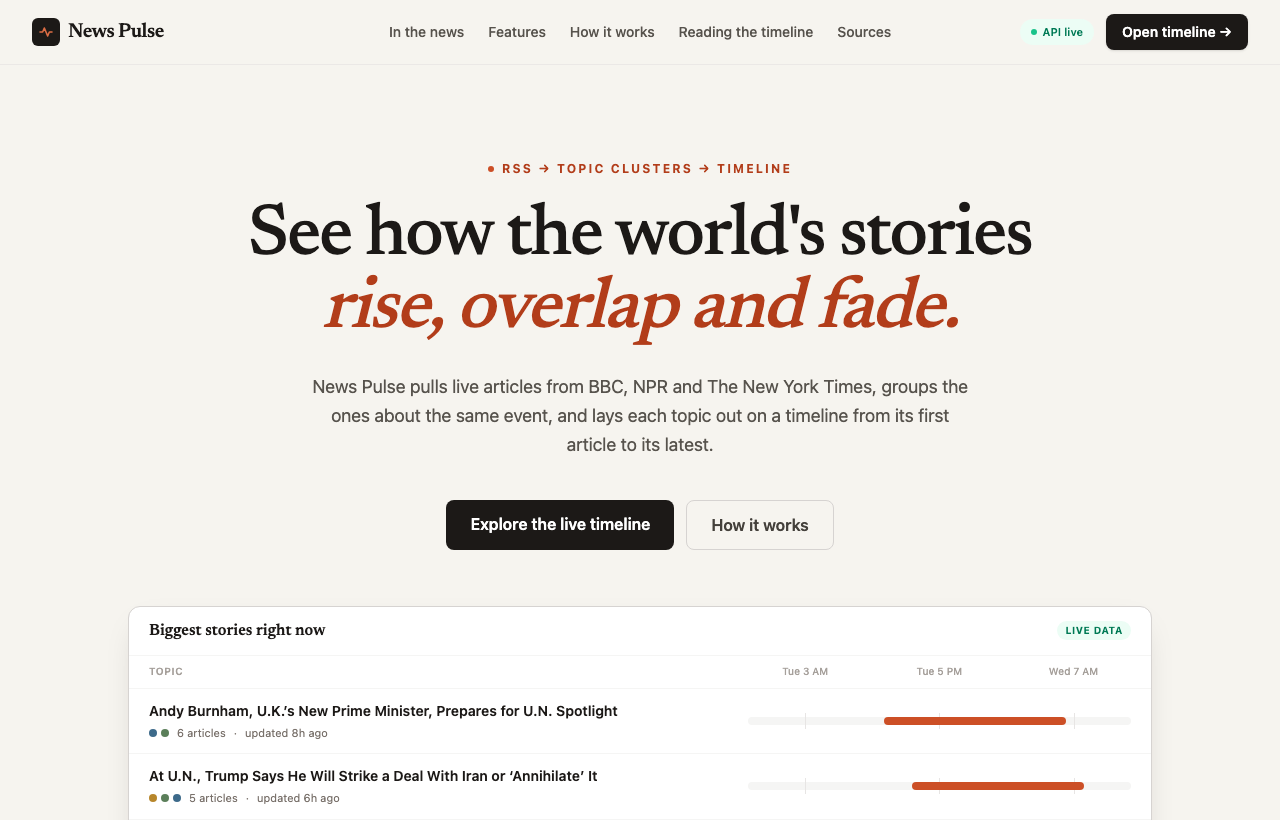
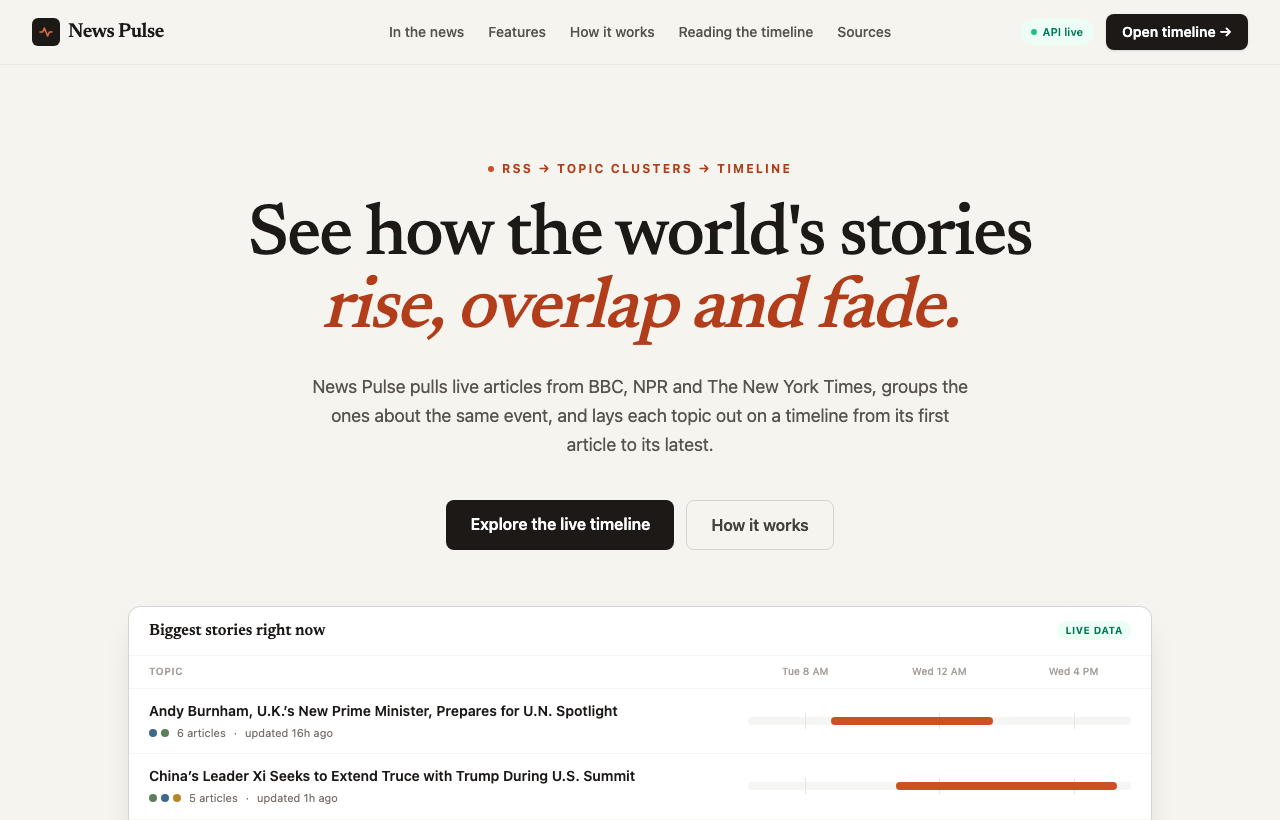
Scale timeline bar thickness with coverage

diff --git a/frontend/app/components/Timeline.js b/frontend/app/components/Timeline.js
@@ -11,22 +11,32 @@ const MIN_BAR_PX = 10;
 const MAX_LABEL_PX = 340;
 const MIN_LABEL_PX = 60;
 const MIN_TICK_SPACING_PX = 110;
+// Bar thickness encodes coverage: the biggest story gets MAX_BAR_H, a single
+// article about MIN_BAR_H. Square root keeps small counts (1 vs 2) visible.
+const MIN_BAR_H = 14;
+const MAX_BAR_H = 30;
+// Below this height a title can't sit inside the bar and goes beside it.
+const MIN_INSIDE_LABEL_H = 22;
+
+function barHeight(intensity = 0) {
+  return Math.round(MIN_BAR_H + (MAX_BAR_H - MIN_BAR_H) * Math.sqrt(Math.min(Math.max(intensity, 0), 1)));
+}
 const ZOOM_LEVELS = [1, 1.5, 2, 3, 4, 6];
 
 const HOUR = 3600000;
 const TICK_INTERVALS = [0.25, 0.5, 1, 2, 3, 6, 12, 24, 48, 168].map(h => h * HOUR);
 
 let measureCtx = null;
-function measureLabel(text) {
+let measureFamily = 'system-ui, sans-serif';
+// Titles are measured in the weight they are drawn in (bold titles are wider).
+function measureLabel(text, weight = 600) {
   if (typeof document !== 'undefined' && !measureCtx) {
     measureCtx = document.createElement('canvas').getContext('2d');
-    if (measureCtx) {
-      const family = getComputedStyle(document.body).fontFamily || 'system-ui, sans-serif';
-      measureCtx.font = `600 12px ${family}`;
-    }
+    measureFamily = getComputedStyle(document.body).fontFamily || measureFamily;
   }
-  const width = measureCtx ? measureCtx.measureText(text).width : text.length * 6.8;
-  return Math.min(Math.ceil(width), MAX_LABEL_PX);
+  if (!measureCtx) return Math.min(Math.ceil(text.length * 6.8), MAX_LABEL_PX);
+  measureCtx.font = `${weight} 12px ${measureFamily}`;
+  return Math.min(Math.ceil(measureCtx.measureText(text).width), MAX_LABEL_PX);
 }
 
 function buildTicks(minTime, maxTime, pxPerMs) {
@@ -94,8 +104,9 @@ export default function Timeline({ data, onSelectCluster, selectedClusterId, hig
       const x = toX(start);
       const barW = Math.max(MIN_BAR_PX, (end - start) * pxPerMs);
       const badgeW = cluster.articleCount > 1 ? 30 : 0;
-      const labelW = measureLabel(cluster.label);
-      const inside = labelW + badgeW + 22 <= barW;
+      const labelW = measureLabel(cluster.label, coverageTier(cluster.intensity) === 'high' ? 700 : 600);
+      const barH = barHeight(cluster.intensity);
+      const inside = barH >= MIN_INSIDE_LABEL_H && labelW + badgeW + 22 <= barW;
 
       let labelSide = 'inside';
       let labelMaxW = labelW;
@@ -117,7 +128,7 @@ export default function Timeline({ data, onSelectCluster, selectedClusterId, hig
         if (labelSide === 'right') occEnd = x + barW + labelMaxW + extra;
         else occStart = x - labelMaxW - extra;
       }
-      return { cluster, x, barW, labelSide, labelMaxW, occStart, occEnd };
+      return { cluster, x, barW, barH, labelSide, labelMaxW, occStart, occEnd };
     });
 
     // Place the biggest stories first so they settle into the top lanes.
@@ -286,8 +297,10 @@ export default function Timeline({ data, onSelectCluster, selectedClusterId, hig
             )}
 
             {/* Clusters */}
-            {layout.items.map(({ cluster, x, barW, labelSide, labelMaxW, lane }) => {
-              const styles = TIER_STYLES[coverageTier(cluster.intensity)];
+            {layout.items.map(({ cluster, x, barW, barH, labelSide, labelMaxW, lane }) => {
+              const tier = coverageTier(cluster.intensity);
+              const styles = TIER_STYLES[tier];
+              const weight = tier === 'high' ? 'font-bold' : 'font-semibold';
               const isSelected = cluster.id === selectedClusterId;
               const isDimmed = highlightIds && !highlightIds.has(cluster.id);
               const top = 36 + 12 + lane * (ROW_H + ROW_GAP);
@@ -317,12 +330,12 @@ export default function Timeline({ data, onSelectCluster, selectedClusterId, hig
                   }}
                 >
                   <span
-                    className={`relative flex h-[26px] items-center gap-2 overflow-hidden rounded-md border px-2.5 shadow-sm transition-shadow group-hover:shadow-md group-focus-visible:ring-2 group-focus-visible:ring-accent-500 group-focus-visible:ring-offset-1 ${styles.bar} ${isSelected ? 'ring-2 ring-stone-900 ring-offset-2' : ''}`}
-                    style={{ width: barW }}
+                    className={`relative flex items-center gap-2 overflow-hidden rounded-md border shadow-sm ${labelSide === 'inside' ? 'px-2.5' : ''} transition-shadow group-hover:shadow-md group-focus-visible:ring-2 group-focus-visible:ring-accent-500 group-focus-visible:ring-offset-1 ${styles.bar} ${isSelected ? 'ring-2 ring-stone-900 ring-offset-2' : ''}`}
+                    style={{ width: barW, height: barH }}
                   >
                     {labelSide === 'inside' && (
                       <>
-                        <span className="truncate text-xs font-semibold">{cluster.label}</span>
+                        <span className={`truncate text-xs ${weight}`}>{cluster.label}</span>
                         <span className="ml-auto">{badge}</span>
                       </>
                     )}
@@ -330,7 +343,7 @@ export default function Timeline({ data, onSelectCluster, selectedClusterId, hig
                   {labelSide !== 'inside' && (
                     <span className={`flex items-center gap-1.5 whitespace-nowrap ${labelSide === 'left' ? 'pr-2' : 'pl-2'}`}>
                       <span
-                        className={`truncate text-xs font-semibold group-hover:text-accent-700 ${isSelected ? 'text-stone-950 underline decoration-2 underline-offset-2' : 'text-stone-700'}`}
+                        className={`truncate text-xs ${weight} group-hover:text-accent-700 ${isSelected ? 'text-stone-950 underline decoration-2 underline-offset-2' : 'text-stone-700'}`}
                         style={{ maxWidth: labelMaxW + 2 }}
                       >
                         {cluster.label}
@@ -351,11 +364,11 @@ export default function Timeline({ data, onSelectCluster, selectedClusterId, hig
 
       <footer className="border-t border-stone-200 bg-paper px-5 py-2.5 flex flex-wrap items-center gap-x-5 gap-y-2 text-[11px] text-stone-500">
         <span className="font-semibold text-stone-600">Coverage</span>
-        <LegendSwatch className="bg-accent-600 border-accent-700" label="Heavy" />
-        <LegendSwatch className="bg-accent-200 border-accent-300" label="Moderate" />
-        <LegendSwatch className="bg-stone-200 border-stone-300" label="Light" />
+        <LegendSwatch className="h-3.5 bg-accent-600 border-accent-700" label="Heavy" />
+        <LegendSwatch className="h-2.5 bg-accent-200 border-accent-300" label="Moderate" />
+        <LegendSwatch className="h-1.5 bg-stone-200 border-stone-300" label="Light" />
         <span className="hidden sm:inline text-stone-400">·</span>
-        <span>Bar length = how long the story stayed active</span>
+        <span>Length = how long the story stayed active · thickness and colour = how many articles</span>
         <span className="ml-auto hidden md:inline text-stone-400">Shift + scroll to pan · click a topic for articles</span>
       </footer>
     </div>
@@ -365,7 +378,7 @@ export default function Timeline({ data, onSelectCluster, selectedClusterId, hig
 function LegendSwatch({ className, label }) {
   return (
     <span className="flex items-center gap-1.5">
-      <span className={`w-4 h-2.5 rounded-sm border ${className}`} />
+      <span className={`w-4 rounded-sm border ${className}`} />
       {label}
     </span>
   );

diff --git a/frontend/app/page.js b/frontend/app/page.js
@@ -262,9 +262,9 @@ function Architecture() {
 
 function ReadingTheTimeline() {
   const rows = [
-    { tier: 'high', left: 6, width: 58, label: 'Summit talks', count: 13, inside: true },
-    { tier: 'medium', left: 30, width: 26, label: 'Trade dispute', count: 6 },
-    { tier: 'low', left: 70, width: 3, label: 'Breaking: earthquake', count: 1 },
+    { tier: 'high', left: 6, width: 58, label: 'Summit talks', count: 13, inside: true, height: 30 },
+    { tier: 'medium', left: 30, width: 26, label: 'Trade dispute', count: 6, height: 25 },
+    { tier: 'low', left: 70, width: 3, label: 'Breaking: earthquake', count: 1, height: 18 },
   ];
   const legend = [
     { tier: 'high', label: 'Heavy coverage' },
@@ -289,7 +289,7 @@ function ReadingTheTimeline() {
             {[
               ['Position', 'when the first article about the topic was published.'],
               ['Length', 'how long the story kept getting new coverage.'],
-              ['Colour', 'how many articles it gathered compared with the biggest story.'],
+              ['Thickness', 'how many articles it gathered: bigger stories get thicker, darker bars.'],
               ['Top rows', 'the biggest stories are always placed first.'],
             ].map(([term, desc]) => (
               <div key={term} className="flex gap-3">
@@ -310,7 +310,7 @@ function ReadingTheTimeline() {
                 const styles = TIER_STYLES[r.tier];
                 return (
                   <div key={r.label} className="relative h-8">
-                    <div className={`absolute flex h-8 items-center gap-2 rounded-md border shadow-sm ${r.inside ? 'px-3' : ''} ${styles.bar}`} style={{ left: `${r.left}%`, width: `${r.width}%` }}>
+                    <div className={`absolute top-1/2 flex -translate-y-1/2 items-center gap-2 rounded-md border shadow-sm ${r.inside ? 'px-3' : ''} ${styles.bar}`} style={{ left: `${r.left}%`, width: `${r.width}%`, height: r.height }}>
                       {r.inside && (
                         <>
                           <span className="truncate text-xs font-semibold">{r.label}</span>

diff --git a/README.md b/README.md
@@ -41,7 +41,7 @@
 
 - **Collects news** from three public RSS feeds and, where the publisher allows it, the full article text.
 - **Groups related stories.** Articles about the same event, from any outlet, form one topic, using TF-IDF and cosine similarity.
-- **Shows topics over time.** Each topic is a bar on the timeline: where it starts is when the first article appeared, its length is how long the story kept getting coverage, and its colour is how heavily it was covered.
+- **Shows topics over time.** Each topic is a bar on the timeline: where it starts is when the first article appeared, its length is how long the story kept getting coverage, and its thickness and colour show how heavily it was covered.
 - **Lets you explore:**
   - search topics, filter by source and time range, and hide single-article topics
   - switch between a timeline view and a ranked list view

diff --git a/frontend/README.md b/frontend/README.md
@@ -15,7 +15,7 @@ The Next.js front end for News Pulse. It shows live news topics on an interactiv
 
 - **Timeline view.**
   - Each bar spans a topic's first to latest article, and the biggest topics sit on the top rows.
-  - Colour shows coverage: heavy, moderate or light, relative to the largest topic.
+  - Thickness and colour show coverage: bars grow from about 21px (one article) to 30px (the biggest story), and heavy topics get bold titles. Colour tiers are heavy, moderate or light, relative to the largest topic.
   - Titles that don't fit inside a bar are drawn beside it.
   - Zoom from 1× to 6×; hovering a bar shows its time range and sources.
 - **List view.** Topic cards sorted by *Biggest* or *Latest*.
